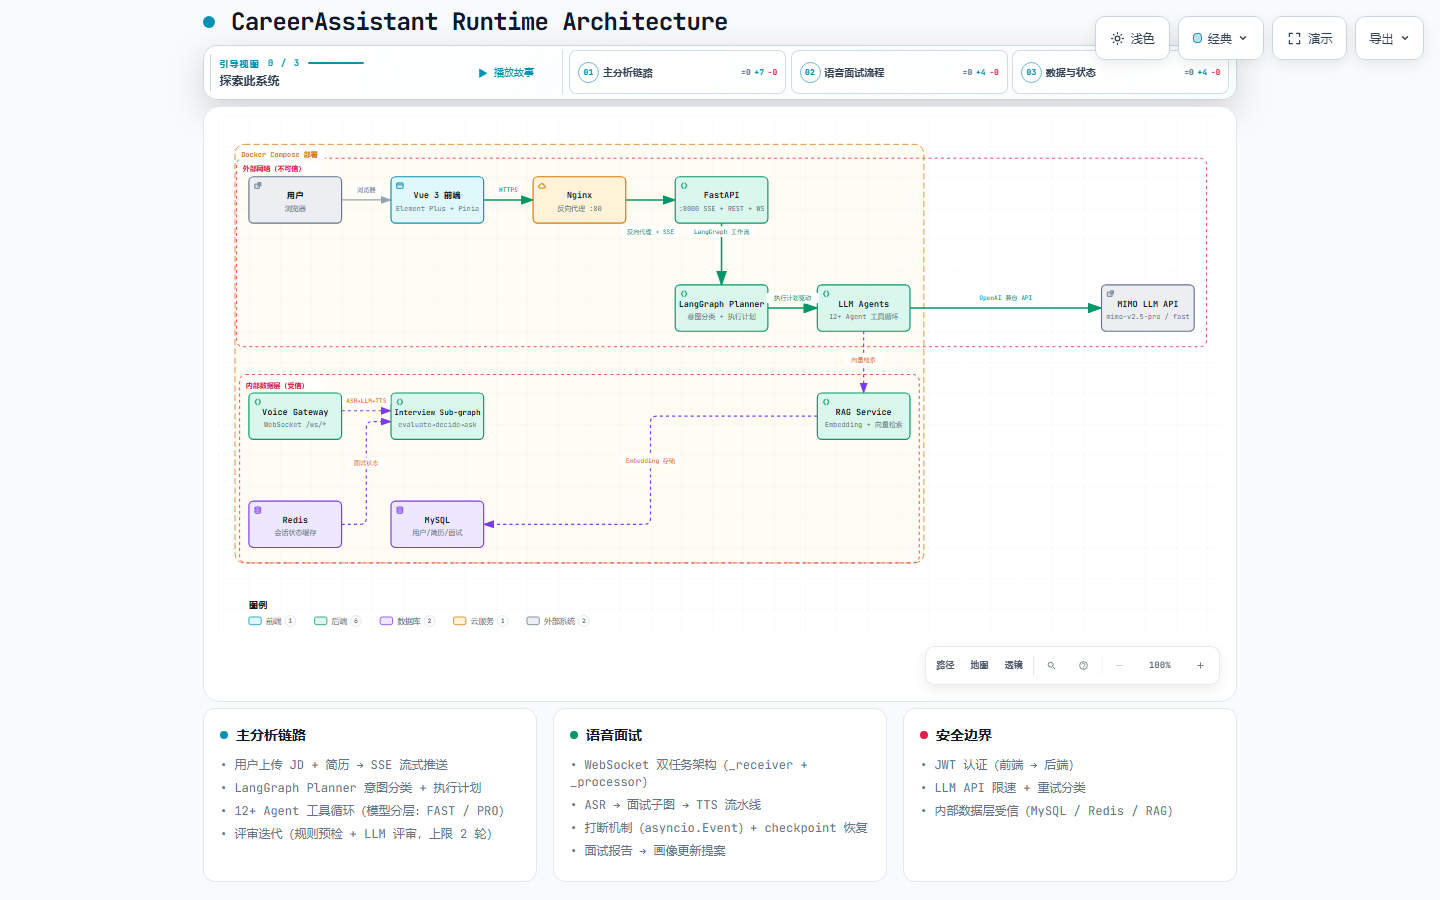
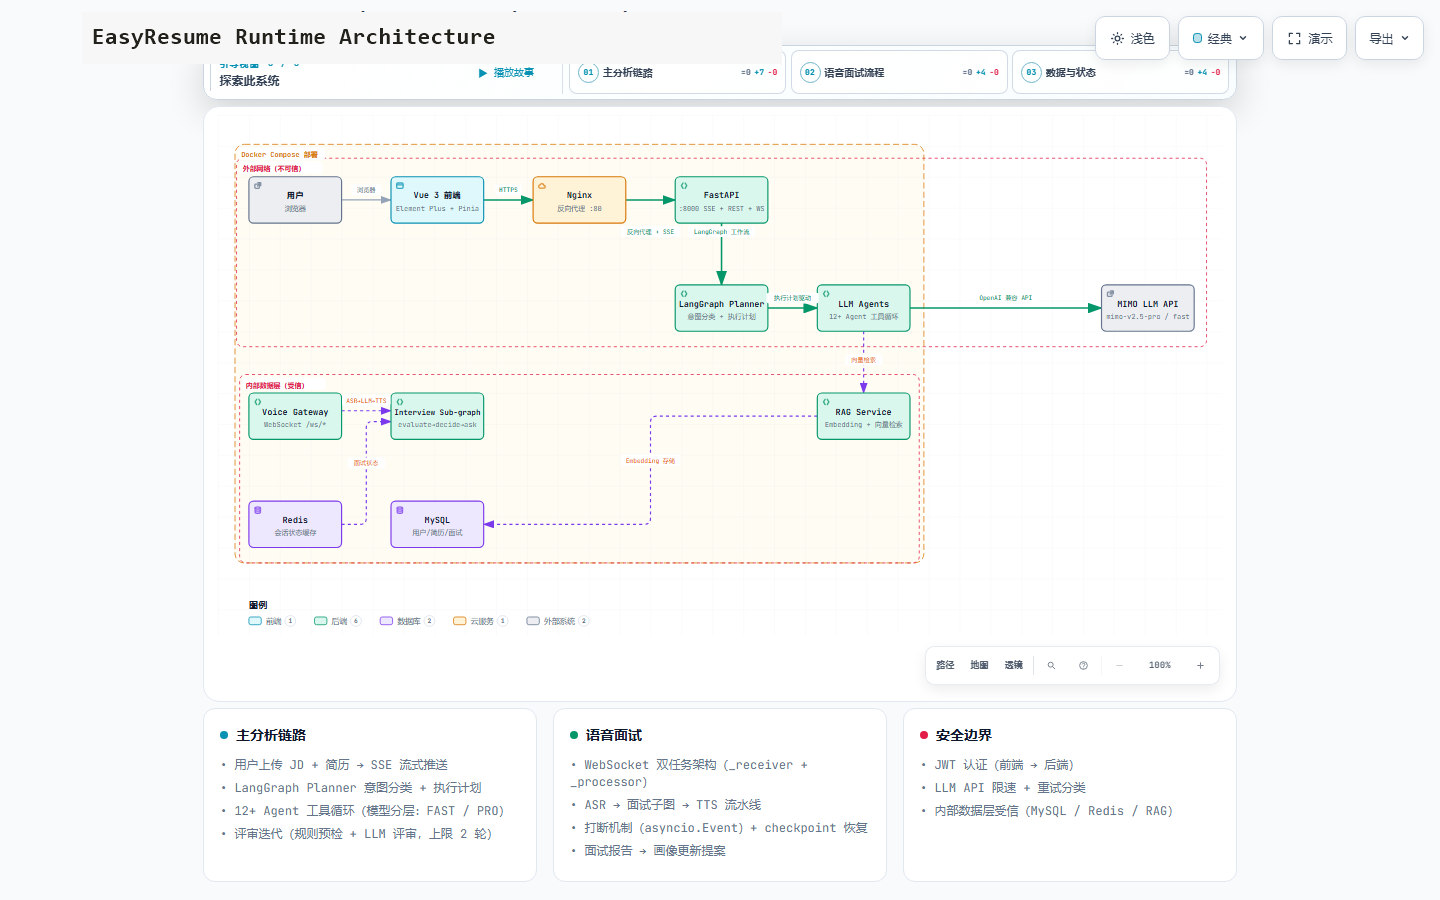
在线预览品牌更名为 EasyResume

Changed region(s): [[0.0625, 0.0, 0.5, 0.0622]]

diff --git a/index.html b/index.html
@@ -3,10 +3,10 @@
 <head>
   <meta charset="utf-8">
   <meta name="viewport" content="width=device-width, initial-scale=1">
-  <meta name="description" content="CareerAssistant AI 求职助手在线功能预览：个人画像、简历生成、简历工作台、求职分析、模拟面试与投递记录。">
+  <meta name="description" content="EasyResume AI 求职助手在线功能预览：个人画像、简历生成、简历工作台、求职分析、模拟面试与投递记录。">
   <meta name="theme-color" content="#f6f2ea">
   <link rel="icon" href="./assets/agent-workflow.png">
-  <title>CareerAssistant｜AI 求职助手在线功能预览</title>
+  <title>EasyResume｜AI 求职助手在线功能预览</title>
   <link rel="stylesheet" href="./styles.css">
 </head>
 <body>
@@ -14,9 +14,9 @@
 
   <header class="site-header" id="top">
     <div class="nav-wrap">
-      <a class="brand" href="#top" aria-label="CareerAssistant 首页">
+      <a class="brand" href="#top" aria-label="EasyResume 首页">
         <span class="brand-mark"><i data-lucide="file-user"></i></span>
-        <span>CareerAssistant</span>
+        <span>EasyResume</span>
       </a>
       <nav class="site-nav" aria-label="主导航">
         <a href="#introduction">项目介绍</a>
@@ -24,7 +24,7 @@
         <a href="#workflow">产品闭环</a>
         <a href="#architecture">技术架构</a>
       </nav>
-      <a class="nav-cta" href="https://github.com/Lzy22301093/CareerAssistant" target="_blank" rel="noreferrer">
+      <a class="nav-cta" href="https://github.com/Lzy22301093/EasyResume" target="_blank" rel="noreferrer">
         <i data-lucide="github"></i><span>查看完整项目</span>
       </a>
     </div>
@@ -37,12 +37,12 @@
           <div class="eyebrow"><span class="live-dot"></span>在线功能预览 · 数据均为虚构演示</div>
           <h1>把一次求职输入，<br>沉淀为可复用的<em>求职资产</em></h1>
           <p class="hero-lead">
-            CareerAssistant 是一套以个人画像为核心的 AI 求职工作台。录入一次 JD 与简历，
+            EasyResume 是一套以个人画像为核心的 AI 求职工作台。录入一次 JD 与简历，
             即可沿“个人画像 → 简历生成 → 简历工作台 → 求职分析 → 模拟面试 → 投递记录”完成可控闭环。
           </p>
           <div class="hero-actions">
             <a class="button button-primary" href="#product-preview"><i data-lucide="layout-dashboard"></i>进入功能预览</a>
-            <a class="button button-secondary" href="https://github.com/Lzy22301093/CareerAssistant" target="_blank" rel="noreferrer"><i data-lucide="terminal-square"></i>获取完整体验</a>
+            <a class="button button-secondary" href="https://github.com/Lzy22301093/EasyResume" target="_blank" rel="noreferrer"><i data-lucide="terminal-square"></i>获取完整体验</a>
           </div>
           <div class="hero-note">
             <i data-lucide="shield-check"></i>
@@ -50,9 +50,9 @@
           </div>
         </div>
 
-        <div class="hero-product" aria-label="CareerAssistant 工作台预览">
+        <div class="hero-product" aria-label="EasyResume 工作台预览">
           <div class="window-bar">
-            <div class="window-brand"><span class="mini-mark"><i data-lucide="file-user"></i></span>CareerAssistant</div>
+            <div class="window-brand"><span class="mini-mark"><i data-lucide="file-user"></i></span>EasyResume</div>
             <div class="window-route">公开演示 / 工作台</div>
             <div class="window-actions"><i data-lucide="bell"></i><span class="avatar-demo">林</span></div>
           </div>
@@ -120,7 +120,7 @@
     <section class="section intro-section" id="introduction">
       <div class="section-head split-head">
         <div><div class="eyebrow">项目介绍</div><h2>不是一次性生成器，<br>而是个人求职资产工作台</h2></div>
-        <p>CareerAssistant 将零散的简历、JD、项目证据和面试反馈整理成结构化画像。后续每个产物都基于同一份画像生成，并保留来源、版本和用户确认记录。</p>
+        <p>EasyResume 将零散的简历、JD、项目证据和面试反馈整理成结构化画像。后续每个产物都基于同一份画像生成，并保留来源、版本和用户确认记录。</p>
       </div>
       <div class="principle-grid">
         <article class="principle"><span>01</span><i data-lucide="database"></i><h3>画像先于生成</h3><p>所有简历、岗位分析与面试准备都读取结构化画像，避免每次重复描述同一段经历。</p></article>
@@ -139,7 +139,7 @@
 
       <div class="app-frame">
         <div class="app-topbar">
-          <div class="app-brand"><span class="brand-mark"><i data-lucide="file-user"></i></span><b>CareerAssistant</b></div>
+          <div class="app-brand"><span class="brand-mark"><i data-lucide="file-user"></i></span><b>EasyResume</b></div>
           <div class="app-user"><span>公开演示</span><span class="avatar-demo">林</span></div>
         </div>
         <div class="module-tabs" role="tablist" aria-label="产品功能模块">
@@ -362,7 +362,7 @@
             </div>
             <div class="workspace-layout">
               <div class="chat-pane">
-                <div class="chat-head"><div class="agent-avatar"><i data-lucide="sparkles"></i></div><div><b>CareerAssistant</b><span>已加载个人画像与简历 v3</span></div><button class="icon-button demo-action" title="新会话"><i data-lucide="square-pen"></i></button></div>
+                <div class="chat-head"><div class="agent-avatar"><i data-lucide="sparkles"></i></div><div><b>EasyResume</b><span>已加载个人画像与简历 v3</span></div><button class="icon-button demo-action" title="新会话"><i data-lucide="square-pen"></i></button></div>
                 <div class="chat-stream">
                   <div class="message user-message"><p>请分析这个后端开发岗位，重点告诉我与个人画像之间的差距，以及简历需要怎么调整。</p></div>
                   <div class="message agent-message"><p>我已完成 JD 解析和 Gap 分析。岗位重点是高并发服务、MySQL 与可观测能力；你的支付实习和可观测平台项目覆盖较完整，分布式一致性与 Kubernetes 实践仍需加强。</p><div class="agent-tags"><span>JD 分析</span><span>Gap 分析</span><span>岗位定制</span></div></div>
@@ -439,8 +439,8 @@
           <section class="module-panel" id="module-interview" data-panel="interview" role="tabpanel">
             <div class="limit-callout">
               <i data-lucide="triangle-alert"></i>
-              <div><b>此模块仅展示真实产品的交互流程与预设结果</b><p>公开静态站不连接后端、LLM、ASR、TTS、WebSocket 和数据库，因此无法进行真实语音面试、实时追问、模型评价与中断恢复。请运行 CareerAssistant 完整项目体验真实模拟面试。</p></div>
-              <a class="button small primary" href="https://github.com/Lzy22301093/CareerAssistant" target="_blank" rel="noreferrer"><i data-lucide="external-link"></i>获取完整体验</a>
+              <div><b>此模块仅展示真实产品的交互流程与预设结果</b><p>公开静态站不连接后端、LLM、ASR、TTS、WebSocket 和数据库，因此无法进行真实语音面试、实时追问、模型评价与中断恢复。请运行 EasyResume 完整项目体验真实模拟面试。</p></div>
+              <a class="button small primary" href="https://github.com/Lzy22301093/EasyResume" target="_blank" rel="noreferrer"><i data-lucide="external-link"></i>获取完整体验</a>
             </div>
             <div class="module-heading">
               <div><span class="small-kicker">AI 语音模拟面试</span><h3>准备、面试、报告的完整真实流程</h3></div>
@@ -528,8 +528,8 @@
         <p>完整项目由 Vue 3、FastAPI、LangGraph、MySQL、Redis、WebSocket 语音网关与 OpenAI 兼容模型服务共同支撑。</p>
       </div>
       <figure class="architecture-figure">
-        <img src="./assets/agent-workflow.png" alt="CareerAssistant 运行时架构：Vue 3 前端经 Nginx 和 FastAPI 调用 LangGraph、Agent、语音网关、RAG、MySQL 与 Redis">
-        <figcaption>CareerAssistant 运行时架构示意。该图展示真实系统的分析链路、语音面试链路与安全边界。</figcaption>
+        <img src="./assets/agent-workflow.png" alt="EasyResume 运行时架构：Vue 3 前端经 Nginx 和 FastAPI 调用 LangGraph、Agent、语音网关、RAG、MySQL 与 Redis">
+        <figcaption>EasyResume 运行时架构示意。该图展示真实系统的分析链路、语音面试链路与安全边界。</figcaption>
       </figure>
       <div class="architecture-notes">
         <article><i data-lucide="workflow"></i><h3>主分析链路</h3><p>JD 与简历通过 SSE 流式推进，LangGraph Planner 分类意图并生成执行计划，各能力单元按契约写入自己的状态字段。</p></article>
@@ -540,7 +540,7 @@
 
     <section class="boundary-section">
       <div class="boundary-inner">
-        <div class="boundary-copy"><div class="eyebrow light">公开预览边界</div><h2>想体验真实 AI 能力，<br>请使用完整项目</h2><p>本页面是独立的静态功能演示，设计用途是帮助访客快速了解产品能力，不替代真实系统。</p><a class="button button-light" href="https://github.com/Lzy22301093/CareerAssistant" target="_blank" rel="noreferrer"><i data-lucide="github"></i>打开 CareerAssistant 项目</a></div>
+        <div class="boundary-copy"><div class="eyebrow light">公开预览边界</div><h2>想体验真实 AI 能力，<br>请使用完整项目</h2><p>本页面是独立的静态功能演示，设计用途是帮助访客快速了解产品能力，不替代真实系统。</p><a class="button button-light" href="https://github.com/Lzy22301093/EasyResume" target="_blank" rel="noreferrer"><i data-lucide="github"></i>打开 EasyResume 项目</a></div>
         <div class="boundary-list">
           <div><i data-lucide="circle-check"></i><span><b>这里可以体验</b>真实模块结构、字段、流程、预设画像、简历内容与结果样式</span></div>
           <div><i data-lucide="circle-x"></i><span><b>这里无法运行</b>真实 LLM 生成、流式 Agent、语音 ASR / TTS、WebSocket 追问、数据库持久化</span></div>
@@ -551,12 +551,12 @@
   </main>
 
   <footer class="site-footer">
-    <div><a class="brand" href="#top"><span class="brand-mark"><i data-lucide="file-user"></i></span><span>CareerAssistant</span></a><p>AI 求职助手 · 个人画像驱动的资产工作台</p></div>
-    <div class="footer-links"><a href="#product-preview">功能预览</a><a href="#architecture">技术架构</a><a href="https://github.com/Lzy22301093/CareerAssistant" target="_blank" rel="noreferrer">完整项目</a></div>
+    <div><a class="brand" href="#top"><span class="brand-mark"><i data-lucide="file-user"></i></span><span>EasyResume</span></a><p>AI 求职助手 · 个人画像驱动的资产工作台</p></div>
+    <div class="footer-links"><a href="#product-preview">功能预览</a><a href="#architecture">技术架构</a><a href="https://github.com/Lzy22301093/EasyResume" target="_blank" rel="noreferrer">完整项目</a></div>
     <div class="footer-note"><span>公开演示数据均为虚构</span><span>本页不采集或上传访客输入</span></div>
   </footer>
 
-  <div class="toast" role="status" aria-live="polite"><i data-lucide="check-circle-2"></i><span>这是静态演示，完整操作请使用 CareerAssistant 项目</span></div>
+  <div class="toast" role="status" aria-live="polite"><i data-lucide="check-circle-2"></i><span>这是静态演示，完整操作请使用 EasyResume 项目</span></div>
 
   <script src="./assets/lucide.min.js"></script>
   <script src="./app.js"></script>

diff --git a/README.md b/README.md
@@ -1,14 +1,14 @@
-# CareerAssistant 公开在线预览
+# EasyResume 公开在线预览
 
-![CareerAssistant 公开演示首页](./preview.png)
+![EasyResume 公开演示首页](./preview.png)
 
-这是 CareerAssistant 的独立静态功能演示站，用于展示真实项目的模块结构、核心流程、预设数据产物与运行架构。
+这是 EasyResume 的独立静态功能演示站，用于展示真实项目的模块结构、核心流程、预设数据产物与运行架构。
 
 公开地址：[https://lzy22301093.github.io/](https://lzy22301093.github.io/)
 
 ## 演示内容
 
-页面按 CareerAssistant 的真实产品主线组织：
+页面按 EasyResume 的真实产品主线组织：
 
 1. 个人画像：分类、事实/待确认状态、证据来源、技能、投递方向、软性信息与画像摘要
 2. 简历生成：准确的 8 步向导、画像导入、AI 表达包装、模板、篇幅与导出入口
@@ -21,16 +21,16 @@
 
 ## 演示边界
 
-- 页面只运行在浏览器本地，不连接 CareerAssistant 后端、LLM、ASR、TTS、WebSocket 或数据库。
+- 页面只运行在浏览器本地，不连接 EasyResume 后端、LLM、ASR、TTS、WebSocket 或数据库。
 - 模拟面试仅展示真实产品流程和预设结果，无法进行实时语音面试、实时追问和模型评价。
-- AI 生成、岗位匹配、面试评价等均为静态 Mock 示例；完整能力需运行 CareerAssistant 项目。
+- AI 生成、岗位匹配、面试评价等均为静态 Mock 示例；完整能力需运行 EasyResume 项目。
 - 人物“林知远”及所有学校、公司、项目、成绩、联系方式、公司岗位和分数均为虚构演示数据。
 - 不包含项目作者或任何真实用户的个人信息。
 - 页面不会上传、保存或发送访客输入。
 
 ## 为什么单独存放
 
-本目录是独立站点仓库，不包含 CareerAssistant 源码、数据库、API Key、真实简历或后端服务。它与真实项目仓库分离，避免静态演示文件影响产品代码与部署。
+本目录是独立站点仓库，不包含 EasyResume 源码、数据库、API Key、真实简历或后端服务。它与真实项目仓库分离，避免静态演示文件影响产品代码与部署。
 
 ## 目录
 
